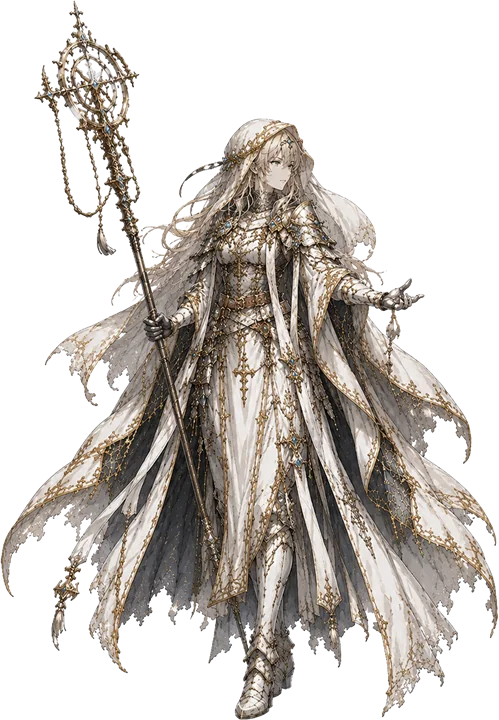
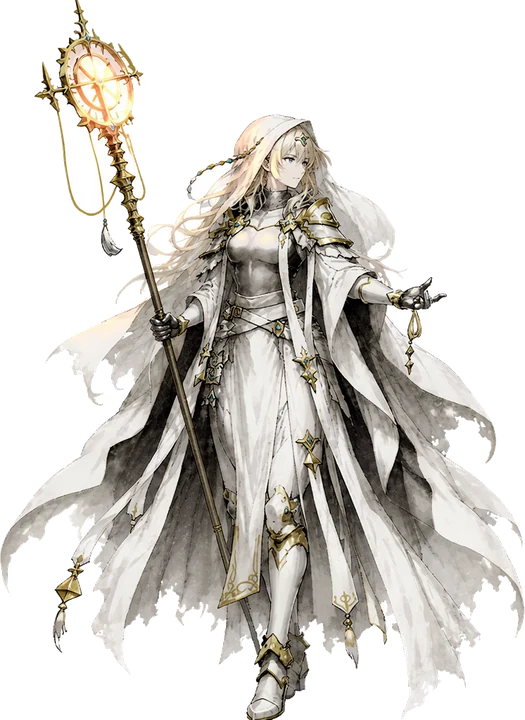
v2.3 Build 53: the party is repainted into the bestiary's language
The three heroes were the last thing in the game still drawn in a
different hand from everything around them. The foes and the twenty-eight
card paintings already shared one; the party did not, and on a
battlefield that puts them together the difference read as three
characters pasted in from another game.

What was wrong was never the designs or the palettes, which are
unchanged. It was the rendering. The old portraits were frontal
symmetrical turnarounds, evenly lit across the whole figure, an even
field of mid-tones, dense uniform detail everywhere, every hem tidily
finished. The foes are three-quarter with the weight on one leg and the
cloth caught mid-motion, one hard rim light down an edge with deep shadow
taking the rest, large near-black masses against bone, detail
concentrated at the face and the weapon, torn cloth tapering into
calligraphic ribbons that dissolve.

Each character's own portrait carries the identity in as an image
reference; the style is carried entirely by WORDS. That is not a
preference — pointing the model at a foe as a style reference makes it
copy the foe's pose and eventually its costume, which is exactly the
failure already recorded for the animation work. The card set is the
proof that words suffice, because those paintings reached this style the
same way.

Elin cost twice what the others did, and the reason is worth keeping.
Asking for "deep charcoal shadow pooling through the lower robes" was
[…]

diff --git a/v2.3/index.html b/v2.3/index.html
@@ -9,7 +9,7 @@
   <link rel="preconnect" href="https://fonts.googleapis.com">
   <link rel="preconnect" href="https://fonts.gstatic.com" crossorigin>
   <link href="https://fonts.googleapis.com/css2?family=Cormorant+Garamond:wght@500;600;700&display=swap" rel="stylesheet">
-  <link rel="stylesheet" href="styles.css?v=52" />
+  <link rel="stylesheet" href="styles.css?v=53" />
 </head>
 <body>
   <div id="k-scale">
@@ -278,8 +278,8 @@
       <button type="button" id="k-swap-go" disabled>CHOOSE A CARD TO GIVE UP</button>
     </section>
   </div>
-  <script src="run.js?v=52"></script>
-  <script src="game.js?v=52"></script>
+  <script src="run.js?v=53"></script>
+  <script src="game.js?v=53"></script>
   <script>
     // fit the 932×430 design space to the viewport, v2.2-style
     (function () {

diff --git a/v2.3/game.js b/v2.3/game.js
@@ -27,7 +27,7 @@
 
 'use strict';
 
-const V23_BUILD = 52;   // MUST match version.json's "v2.3" — bump BOTH every build.
+const V23_BUILD = 53;   // MUST match version.json's "v2.3" — bump BOTH every build.
 
 // PRESENTATION SCALE: 1 means the screen shows the engine's own numbers —
 // Slay-the-Spire scale, where a hero has 42 HP and a Cleave hits for 6. Big

diff --git a/v2.3/tools/cutout.py b/v2.3/tools/cutout.py
@@ -1,0 +1,107 @@
+#!/usr/bin/env python3
+"""Cut a generated figure off its white backdrop, without eating the figure.
+
+  python3 cutout.py in.png out.webp --height 720
+
+WHY THIS IS NOT A THRESHOLD. The obvious key — "every pixel brighter than X is
+background" — works fine for a charcoal foe and destroys a white-robed one. The
+oracle's robe highlights measure the SAME VALUE as the backdrop she is standing
+on (3119 interior samples at min-channel 250 or above, against a backdrop of
+253), so a global threshold punches holes straight through her.
+
+What separates them is not brightness, it is CONNECTION. The backdrop touches
+the frame edge; her robes do not. So the fill starts at the border and spreads
+only through pixels that are both bright and reachable from outside, and
+anything enclosed by the figure survives however white it is.
+
+The soft edge is then applied ONLY in a narrow band along the boundary that fill
+found, for the same reason: a brightness ramp applied everywhere would fade the
+robes back out again.
+"""
+import argparse, os, sys
+from collections import deque
+from PIL import Image
+
+
+def cut(im, lo=244, band=2):
+    im = im.convert("RGB")
+    w, h = im.size
+    px = im.load()
+    bright = [False] * (w * h)
+    for y in range(h):
+        base = y * w
+        for x in range(w):
+            r, g, b = px[x, y]
+            # min-channel: a coloured pixel is never backdrop, however light
+            bright[base + x] = min(r, g, b) >= lo
+
+    bg = [False] * (w * h)
+    q = deque()
+    for x in range(w):
+        for y in (0, h - 1):
+            i = y * w + x
+            if bright[i] and not bg[i]:
+                bg[i] = True; q.append(i)
+    for y in range(h):
+        for x in (0, w - 1):
+            i = y * w + x
+            if bright[i] and not bg[i]:
+                bg[i] = True; q.append(i)
+    while q:
+        i = q.popleft()
+        iy, ix = divmod(i, w)
+        for dx, dy in ((1, 0), (-1, 0), (0, 1), (0, -1)):
+            nx, ny = ix + dx, iy + dy
+            if 0 <= nx < w and 0 <= ny < h:
+                j = ny * w + nx
+                if bright[j] and not bg[j]:
+                    bg[j] = True; q.append(j)
+
+    out = Image.new("RGBA", (w, h))
+    op = out.load()
+    # the boundary band: foreground pixels within `band` of anything the fill
+    # reached. Only here does brightness soften the edge.
+    for y in range(h):
+        for x in range(w):
+            i = y * w + x
+            if bg[i]:
+                op[x, y] = px[x, y] + (0,)
+                continue
+            near = False
+            for dy in range(-band, band + 1):
+                for dx in range(-band, band + 1):
+                    nx, ny = x + dx, y + dy
+                    if 0 <= nx < w and 0 <= ny < h and bg[ny * w + nx]:
+                        near = True; break
+                if near: break
+            if not near:
+                op[x, y] = px[x, y] + (255,)
+            else:
+                v = min(px[x, y])
+                a = 255 if v <= lo - 14 else int(255 * (lo - v) / 14.0)
+                op[x, y] = px[x, y] + (max(0, min(255, a)),)
+    return out
+
+
+def main(argv=None):
+    ap = argparse.ArgumentParser()
+    ap.add_argument("src")
+    ap.add_argument("out")
+    ap.add_argument("--height", type=int, default=720, help="output height in px")
+    ap.add_argument("--lo", type=int, default=244, help="backdrop min-channel floor")
+    ap.add_argument("--q", type=int, default=88)
+    a = ap.parse_args(argv)
+
+    im = cut(Image.open(a.src), a.lo)
+    box = im.getchannel("A").point(lambda v: 255 if v > 24 else 0).getbbox()
+    if box:
+        im = im.crop(box)
+    k = a.height / im.height
+    im = im.resize((max(1, round(im.width * k)), a.height), Image.LANCZOS)
+    im.save(a.out, "WEBP", quality=a.q, method=6)
+    print("wrote %s  %dx%d  %d bytes" % (a.out, im.width, im.height, os.path.getsize(a.out)))
+    return 0
+
+
+if __name__ == "__main__":
+    sys.exit(main())

diff --git a/v2.3/docs/HERO-ART.md b/v2.3/docs/HERO-ART.md
@@ -1,0 +1,84 @@
+# HERO ART — why the party was repainted, and the rule it follows
+
+The three heroes were the last thing in the game still drawn in a different
+language from everything around them. The foes and the twenty-eight card
+paintings already shared one; the party portraits did not, and on a battlefield
+that put them together the difference read as three characters pasted in from
+another game.
+
+## What was actually wrong
+
+Not the designs, and not the palettes. The **rendering**:
+
+| | the old portraits | the foes and the cards |
+|---|---|---|
+| pose | frontal, symmetrical, feet square — a turnaround sheet | three-quarter, weight on one leg, cloth caught mid-motion |
+| light | flat and ambient, lighting the whole figure evenly | one hard rim light down an edge, deep shadow taking the rest |
+| value | an even field of mid-tones | large near-black masses against bone highlights |
+| detail | uniform, dense, everywhere at once | concentrated at the face and the weapon, falling away outward |
+| edges | closed, tidy, every hem finished | torn cloth tapering into long calligraphic ribbons that dissolve |
+
+## The rule
+
+> Same character, same design, same accent hue. Loose ink-and-wash painterly
+> brushwork; the figure built from a few large masses that read as ONE
+> silhouette; a single hard rim light down one edge with deep shadow swallowing
+> the rest; torn fabric tapering away into long calligraphic ribbons with
+> dry-brush edges; detail concentrated at the face and the weapon and falling
+> away toward the extremities. High value contrast, generous empty space.
+
+Each character's own portrait goes in as the `image_references` input — that is
+what holds the face, the design and the palette — and **the style is carried
+entirely by words**. That is not a preference: pointing the model at a foe as a
+style reference makes it copy the foe's POSE and eventually its costume, which
+is the same failure documented in `FOE-ANIM.md`. The card set proves words are
+enough, because those twenty-eight paintings reached this style the same way.
+
+### Two constraints the framing cannot break
+
+The battlefield anchors `.k-hero img` at `height: 100%` with the feet at the
+bottom, and the HUD busts crop with `object-fit: cover; object-position: top`.
+So however dynamic the pose gets, **both feet stay planted at the very bottom
+edge and the head stays near the top**, in a tall portrait frame. A leaping pose
+would float the figure off the ground line and behead the bust.
+
+### What the accent hue is for
+
+Ash and Mira are the dark pair, violet; Elin is the pale one, warm gold. That
+contrast is load-bearing — she is how the eye finds the healer in a party stack
+of three — so the light-versus-dark split survives the restyle intact.
+
+**This is the trap Elin's pass fell into.** Asking for "deep charcoal shadow
+pooling through the lower robes" was read as *black fabric*, and two attempts
+came back with the oracle in a black gown: correct style, wrong character, and a
+party of three dark figures. For a pale character the contrast has to be stated
+as coming from LIGHT — "the shadow side of the same white robes dropping to deep
+cool grey, the cloth itself staying white" — with an explicit "her robes are
+never black". Four variants to land it against two apiece for the others.
+
+## Cutting them out
+
+`tools/cutout.py`, and it is deliberately not a threshold. The obvious key —
+everything brighter than X is backdrop — works on a charcoal foe and destroys a
+white-robed oracle: her robe highlights measure the *same value* as the backdrop
+she stands on (3119 interior samples at min-channel ≥250, on a 253 field), so a
+global threshold punches holes straight through her.
+
+What separates figure from field is not brightness but **connection**. The
+backdrop touches the frame edge; her robes do not. So the fill starts at the
+border and spreads only through pixels that are both bright and reachable from
+outside, and anything enclosed by the figure survives however white it is. The
+soft edge is then applied only in a narrow band along the boundary the fill
+found — a brightness ramp applied everywhere would fade the robes back out.
+
+Output is 720px tall to match what the party plates have always been.
+
+## What this leaves open
+
+- **The card paintings.** All twenty-eight were generated against the OLD
+  portraits. Same cast, same accent hues, so nothing clashes; but a set
+  regenerated today would sit closer to the new party. 28 credits to close, and
+  worth doing only if the gap starts to show.
+- **The heroes do not animate.** The five foes carry painted frames now; the
+  party is still three still images with a CSS breathe. v2.2's
+  `art/hero-ash-anim.webp` is what one looked like when it did.

diff --git a/v2.3/docs/CARD-ART.md b/v2.3/docs/CARD-ART.md
@@ -46,6 +46,14 @@ black-armoured swordsman from the reference image, same face, same ragged
 black-and-violet plate" — because without that the model drifts off-model by the
 third image in a batch.
 
+**Those three portraits were repainted in Build 53** to match the bestiary's
+rendering (see `HERO-ART.md`). The characters are the same and the accent hues
+are unchanged, so the twenty-eight paintings still read as the same cast; but
+they were generated against the OLD portraits, and a card set regenerated today
+would sit a little closer to the new ones. That is a deliberate open question,
+not an oversight — 28 credits to close it, and worth doing only if the gap
+starts to show.
+
 Output goes to `art/cards/<cardId>.webp`. `CARD_ART` in `game.js` is the switch:
 an id listed there gets its painting, an id not listed falls back to the owner's
 portrait framed as a bust. Adding art is two steps — drop the file in, add the
